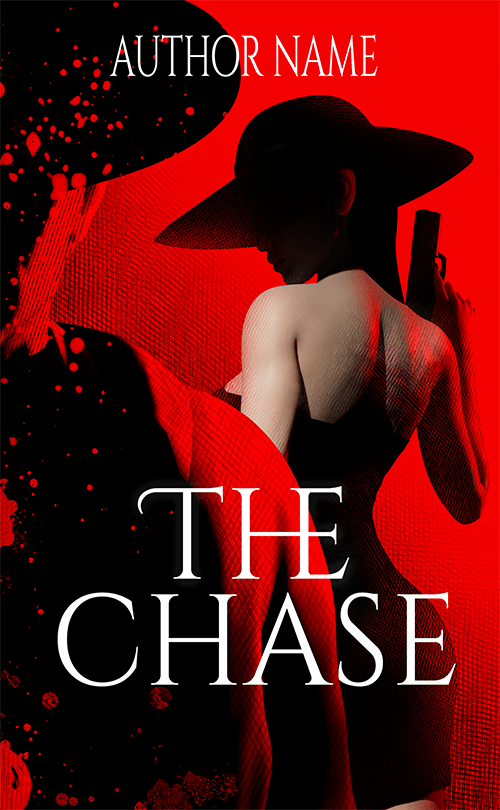
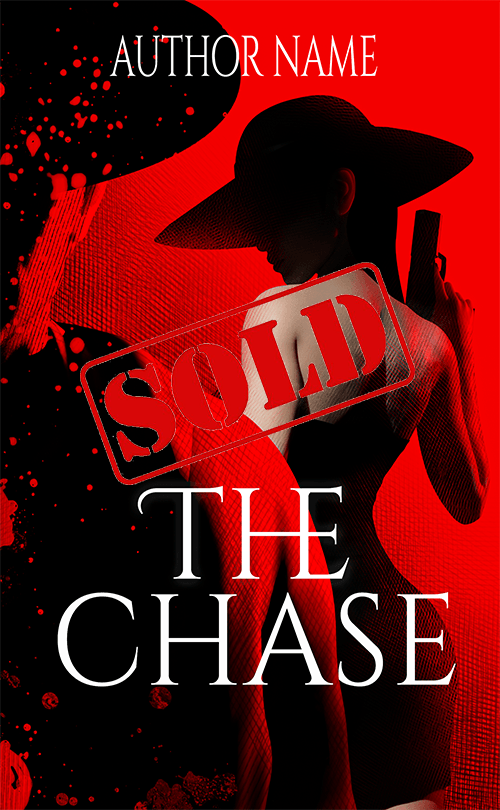
9

Changed region(s): [[0.15, 0.3086, 0.84, 0.6173]]

diff --git a/works/_premades/lullaby.md b/works/_premades/lullaby.md
@@ -1,9 +1,9 @@
 --- 
-title: Made in Ice
+title: "Lullaby"
 description:
 price: "19.99"
 category: 
 images: 
-    - /assets/img/ice.png
-order: 502
+    - /assets/img/Benzin.png
+order: 517
 ---

diff --git a/works/_premades/thewitch.md b/works/_premades/thewitch.md
@@ -1,7 +1,7 @@
 ---
 title: The Witch
 description:
-price: "160.00"
+price: "SOLD"
 category: Fantasy, sci-fi, adventure, action, magical
 images: 
     - /assets/img/witch.png

diff --git a/works/_premades/serpent.md b/works/_premades/serpent.md
@@ -1,7 +1,7 @@
 ---
 title: Serpent
 description:
-price: "100.00"
+price: "SOLD"
 category: Fantasy, sci-fi, adventure, action, magical
 images: 
   - /assets/img/serpent.png

diff --git a/works/_premades/hisposession.md b/works/_premades/hisposession.md
@@ -1,7 +1,7 @@
 ---
 title: His Possession 
 description:
-price: "120.00"
+price: "60.00"
 category: Romance, Thriller.
 images: 
   - /assets/img/posesion.png

diff --git a/works/_premades/thechase.md b/works/_premades/thechase.md
@@ -1,7 +1,7 @@
 ---
 title: The Chase
 description:
-price: "80.00"
+price: "SOLD"
 category: Crime, Thriler, Mafia
 images: 
   - /assets/img/thechase1.png

diff --git a/works/_premades/cursedangel.md b/works/_premades/cursedangel.md
@@ -1,7 +1,7 @@
 --- 
 title: Cursed Guardian
 description:
-price: "140.00"
+price: "SOLD"
 category: 
 images: 
     - /assets/img/cursedfuardian.png

diff --git a/works/_premades/forbidden.md b/works/_premades/forbidden.md
@@ -1,0 +1,9 @@
+--- 
+title: "The Forbidden Fruit"
+description:
+price: "19.99"
+category: 
+images: 
+    - /assets/img/Benzin.png
+order: 516
+---

diff --git a/works/_premades/flight.md b/works/_premades/flight.md
@@ -1,0 +1,9 @@
+--- 
+title: "Cursed Flight"
+description:
+price: "SOLD"
+category: 
+images: 
+    - /assets/img/cursedflight.png
+order: 519
+---

diff --git a/works/_premades/kid.md b/works/_premades/kid.md
@@ -1,7 +1,7 @@
 --- 
 title: Kidnapped on Valentine's
 description:
-price: "SOLD"
+price: "60.00"
 category: 
 images: 
     - /assets/img/kid.png

diff --git a/works/_premades/arhangel.md b/works/_premades/arhangel.md
@@ -1,7 +1,7 @@
 --- 
 title: Archangels's Sin
 description:
-price: "140.00"
+price: "SOLD"
 category: 
 images: 
     - /assets/img/arhangel.png

diff --git a/works/_premades/sisterhood.md b/works/_premades/sisterhood.md
@@ -1,0 +1,9 @@
+--- 
+title: "Sisterhood"
+description:
+price: "sold"
+category: 
+images: 
+    - /assets/img/sisterhood.png
+order: 520
+---

diff --git a/works/_premades/keeper.md b/works/_premades/keeper.md
@@ -1,7 +1,7 @@
 --- 
 title: Serpent Keeper
 description:
-price: "175.00"
+price: "SOLD"
 category: 
 images: 
     - /assets/img/keeper.png
